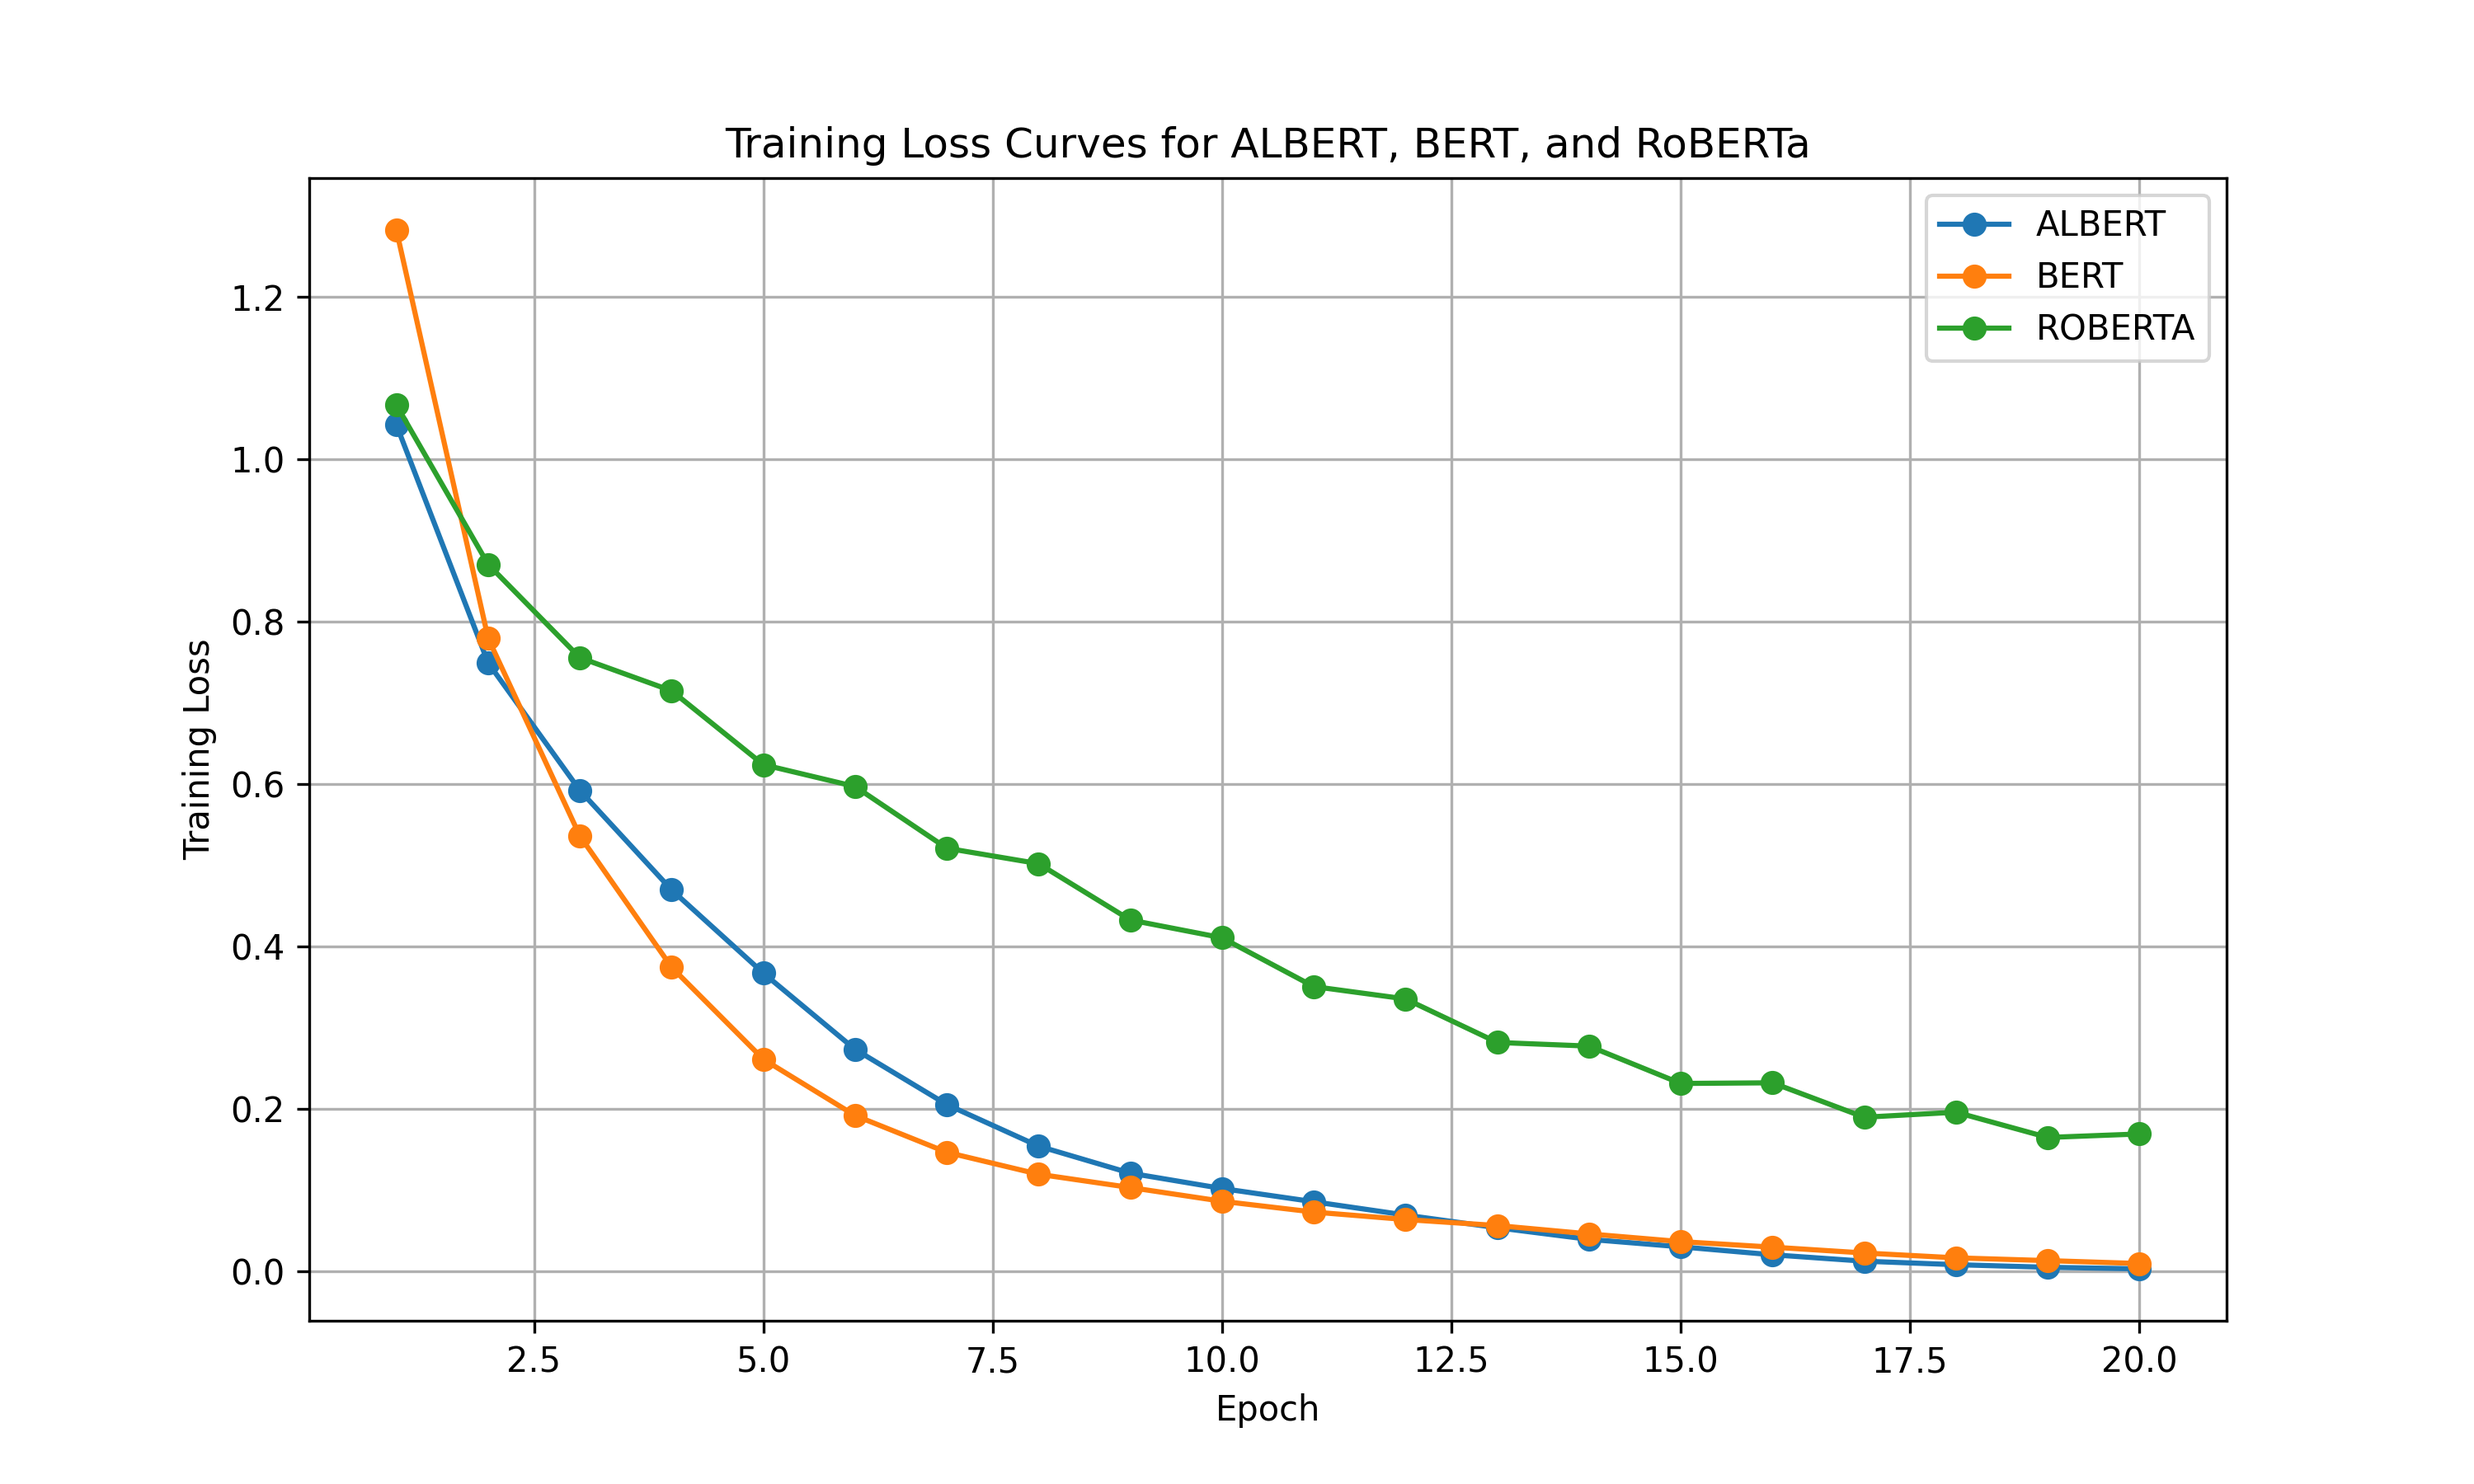
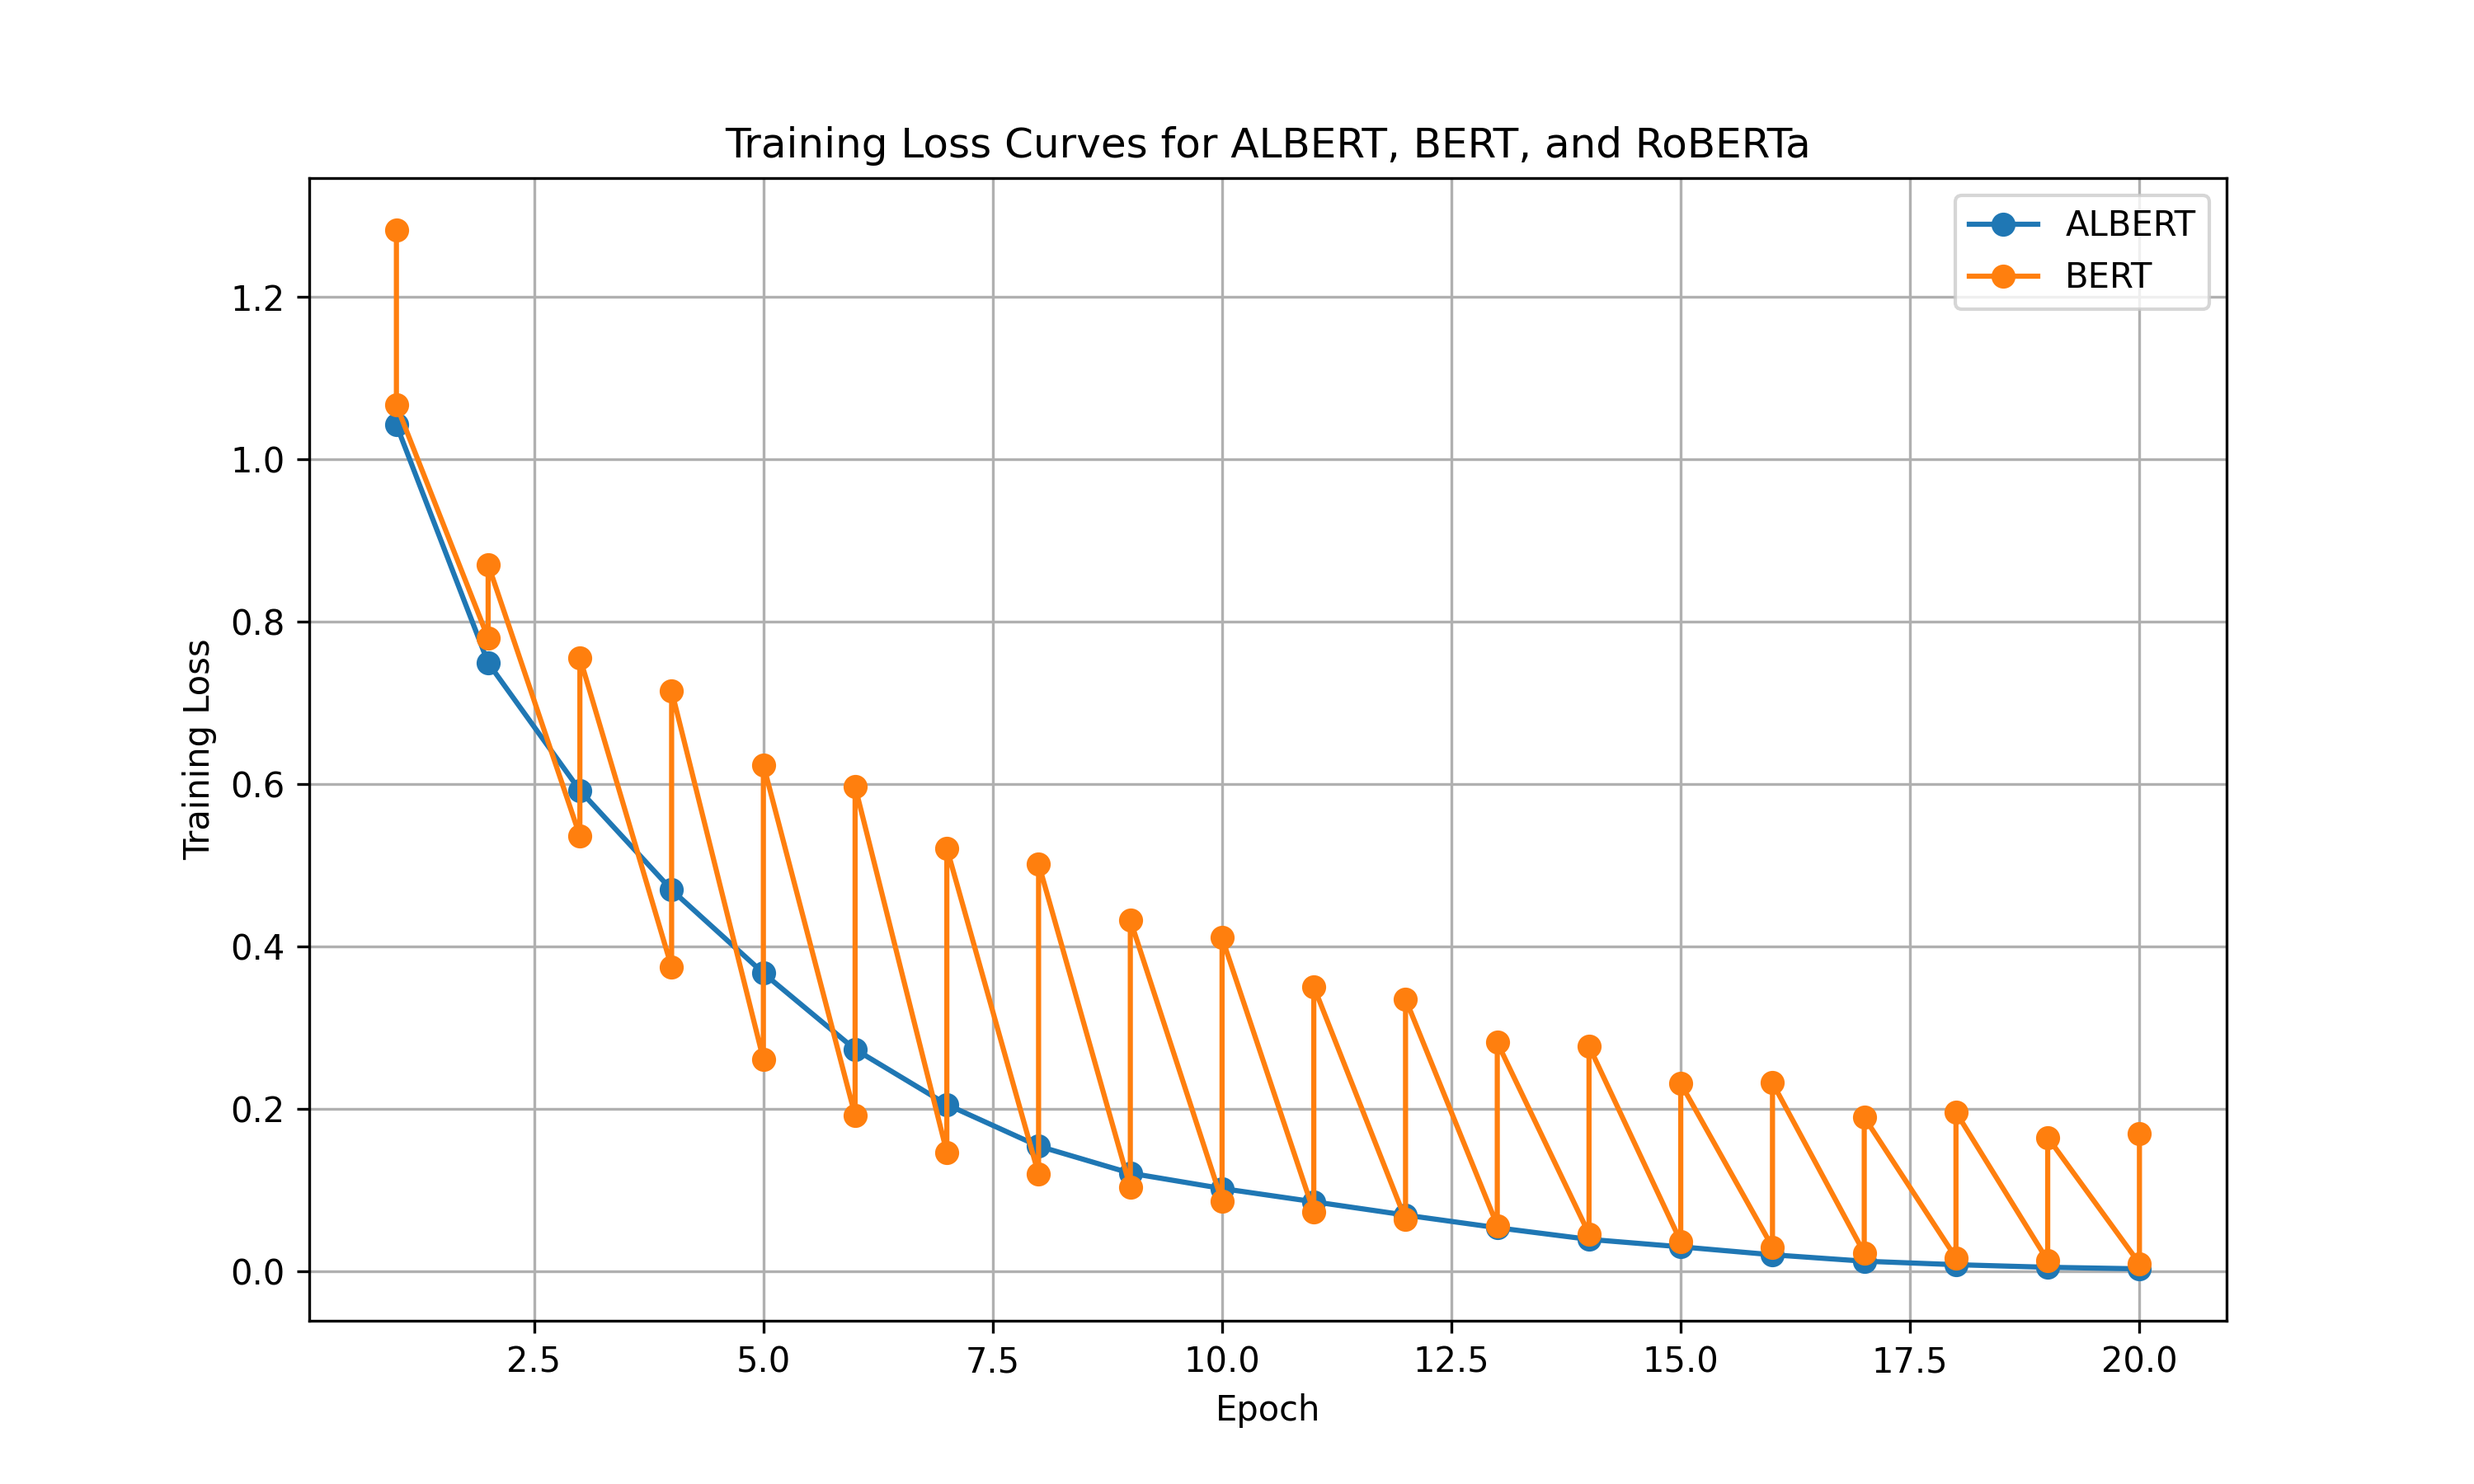
updated loss curves

diff --git a/plot_loss_curves.py b/plot_loss_curves.py
@@ -3,49 +3,45 @@ import re
 import math
 import matplotlib.pyplot as plt
 
+# Adjust the log file paths if necessary
 albert_log = "albert/out_albert.out"
 bert_log = "bert/out_bert.out"
 roberta_log = "roberta/out_roberta.out"
 
-epoch_pattern = re.compile(r"Epoch\s+(\d+)\s+completed\s+for\s+(albert|bert|roberta)")
+# We'll just parse loss lines directly:
 loss_pattern = re.compile(r"\{.*'loss':\s*([\d.]+).*'epoch':\s*([\d.]+).*}")
 
 model_epochs = {'albert': [], 'bert': [], 'roberta': []}
 model_losses = {'albert': [], 'bert': [], 'roberta': []}
 
+# We'll deduce the model name from the file path
 def parse_logs(log_file):
+    if "albert" in log_file:
+        current_model = "albert"
+    elif "bert" in log_file:
+        current_model = "bert"
+    elif "roberta" in log_file:
+        current_model = "roberta"
+    else:
+        # If the model name isn't in the file path, adjust this logic as needed
+        return
+
     with open(log_file, 'r') as f:
         lines = f.readlines()
 
-    i = 0
-    while i < len(lines):
-        line = lines[i].strip()
-        ep_match = epoch_pattern.match(line)
-        if ep_match:
-            current_epoch, current_model = ep_match.groups()
-            current_epoch = float(current_epoch)
+    for line in lines:
+        line = line.strip()
+        loss_match = loss_pattern.match(line)
+        if loss_match:
+            loss_str, epoch_str = loss_match.groups()
+            loss_val = float(loss_str)
+            epoch_val = float(epoch_str)
+            # Round the epoch to the nearest integer to avoid multiple close values
+            epoch_rounded = round(epoch_val)
+            model_epochs[current_model].append(epoch_rounded)
+            model_losses[current_model].append(loss_val)
 
-            # Search forward for a line with a loss for approximately the same epoch
-            j = i + 1
-            found_loss = False
-            while j < len(lines):
-                loss_line = lines[j].strip()
-                loss_match = loss_pattern.match(loss_line)
-                if loss_match:
-                    loss_str, epoch_str = loss_match.groups()
-                    loss_val = float(loss_str)
-                    loss_epoch = float(epoch_str)
-                    # Use math.isclose to handle floating point differences
-                    if math.isclose(loss_epoch, current_epoch, rel_tol=1e-3, abs_tol=0.01):
-                        model_epochs[current_model].append(current_epoch)
-                        model_losses[current_model].append(loss_val)
-                        found_loss = True
-                        break
-                j += 1
-            i = j if found_loss else j
-        else:
-            i += 1
-
+# Parse each model's log file
 parse_logs(albert_log)
 parse_logs(bert_log)
 parse_logs(roberta_log)
@@ -54,7 +50,11 @@ plt.figure(figsize=(10, 6))
 
 for model in ['albert', 'bert', 'roberta']:
     if model_epochs[model]:
-        plt.plot(model_epochs[model], model_losses[model], marker='o', label=model.upper())
+        # Sort by epoch to ensure lines are drawn correctly in ascending order
+        combined = list(zip(model_epochs[model], model_losses[model]))
+        combined.sort(key=lambda x: x[0])
+        sorted_epochs, sorted_losses = zip(*combined)
+        plt.plot(sorted_epochs, sorted_losses, marker='o', label=model.upper())
 
 plt.xlabel('Epoch')
 plt.ylabel('Training Loss')
